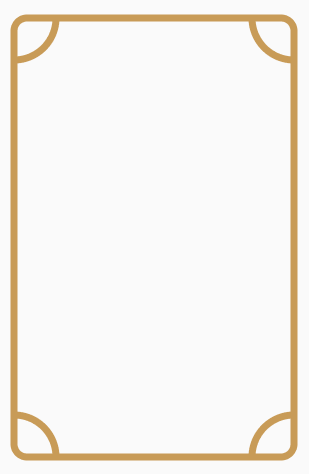
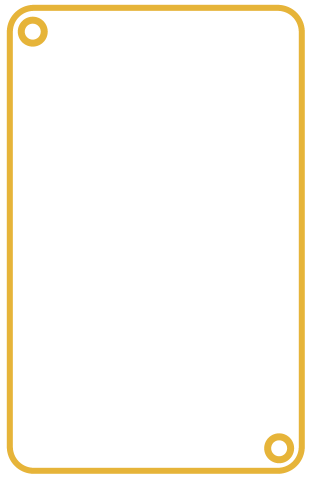
change card design and color, button colors as Theme

Changed region(s): [[0.0, 0.0, 0.9903, 1.0]]

diff --git a/lib/utilities/GesturedAnimatedCard.dart b/lib/utilities/GesturedAnimatedCard.dart
@@ -155,8 +155,8 @@ class _GesturedAnimatedArdState extends State<GesturedAnimatedCard> {
                                     ..setEntry(3, 2, 0.001)
                                     ..rotateY(val),
                                   child: Container(
-                                    width: 309,
-                                    height: 474,
+                                    width: 310,
+                                    height: 480,
                                     child: isBack ?
                                     Container(
                                       padding: EdgeInsets.all(20.0),
@@ -205,7 +205,8 @@ class _GesturedAnimatedArdState extends State<GesturedAnimatedCard> {
                                       child: Container(
                                         padding: EdgeInsets.all(20.0),
                                         decoration: BoxDecoration(
-                                            borderRadius: BorderRadius.circular(10.0),
+                                          color: Theme.of(context).accentColor,
+                                            borderRadius: BorderRadius.circular(30.0),
                                             image: DecorationImage(
                                                 image: AssetImage('assets/face.png')
                                             )
@@ -219,7 +220,7 @@ class _GesturedAnimatedArdState extends State<GesturedAnimatedCard> {
                                                 mainAxisAlignment:MainAxisAlignment.center,
                                                 crossAxisAlignment: CrossAxisAlignment.center,
                                                 children: [
-                                                  Text(vocabItems.word, style: TextStyle(fontSize: 35.0, fontFamily: 'Lobster-Regular', color: Colors.black.withOpacity(0.7)),),
+                                                  Text(vocabItems.word, style: TextStyle(fontSize: 35.0, fontFamily: 'Lobster-Regular', color: Colors.white.withOpacity(0.7)),),
                                                   TextToSpeech(vocabWord: vocabItems.word)
                                                 ],
                                               ),
@@ -231,7 +232,7 @@ class _GesturedAnimatedArdState extends State<GesturedAnimatedCard> {
                                               alignment: Alignment.center,
 
                                               decoration: BoxDecoration(
-                                                  color: Colors.black.withOpacity(0.1),
+                                                  color: Colors.white.withOpacity(0.1),
                                                   borderRadius: BorderRadius.circular(10.0)
                                               ),
                                               child:CupertinoScrollbar(
@@ -239,7 +240,7 @@ class _GesturedAnimatedArdState extends State<GesturedAnimatedCard> {
                                                 child: SingleChildScrollView(
                                                   scrollDirection: Axis.vertical,
 
-                                                  child:  Text(vocabItems.englishMeaning, style: TextStyle(fontSize: 23.0, fontFamily: 'ZillaSlab-Regular', color: Colors.black.withOpacity(0.7)),
+                                                  child:  Text(vocabItems.englishMeaning, style: TextStyle(fontSize: 23.0, fontFamily: 'ZillaSlab-Regular', color: Colors.white.withOpacity(0.7)),
                                                       textAlign: TextAlign.center),
                                                 ),
 
@@ -255,14 +256,14 @@ class _GesturedAnimatedArdState extends State<GesturedAnimatedCard> {
                                               margin: EdgeInsets.only(top: 3.0, bottom: 3.0),
 
                                               decoration: BoxDecoration(
-                                                  color: Colors.black.withOpacity(0.1),
+                                                  color: Colors.white.withOpacity(0.1),
                                                   borderRadius: BorderRadius.circular(10.0)
                                               ),
                                               child:CupertinoScrollbar(
                                                 child: SingleChildScrollView(
                                                   scrollDirection: Axis.vertical,
 
-                                                  child: Text(vocabItems.nativeMeaning, style: TextStyle(fontSize: 22.0, color: Colors.black.withOpacity(0.7),
+                                                  child: Text(vocabItems.nativeMeaning, style: TextStyle(fontSize: 22.0, color: Colors.white.withOpacity(0.7),
                                                       fontFamily: 'Ekushey-Puja'),
                                                       textAlign: TextAlign.center),
                                                 ),
@@ -275,20 +276,20 @@ class _GesturedAnimatedArdState extends State<GesturedAnimatedCard> {
                                               alignment: Alignment.center,
 
                                               decoration: BoxDecoration(
-                                                  color: Colors.black.withOpacity(0.1),
+                                                  color: Colors.white.withOpacity(0.1),
                                                   borderRadius: BorderRadius.circular(10.0)
                                               ),
                                               child:CupertinoScrollbar(
                                                 child: SingleChildScrollView(
                                                   scrollDirection: Axis.vertical,
 
-                                                  child: TextToSpeechSentence(sentences: vocabItems.sentences, color: Colors.black.withOpacity(0.7)),
+                                                  child: TextToSpeechSentence(sentences: vocabItems.sentences, color: Colors.white.withOpacity(0.7)),
                                                 ),
 
                                               ),
                                             ),
 
-                                            Text(DateFormat.yMMMd().add_jms().format(vocabItems.createdAt), style: TextStyle(fontSize: 12.0, fontFamily: 'ZillaSlab-Regular', color: Colors.black.withOpacity(0.7)),),
+                                            Text(DateFormat.yMMMd().add_jms().format(vocabItems.createdAt), style: TextStyle(fontSize: 12.0, fontFamily: 'ZillaSlab-Regular', color: Colors.white.withOpacity(0.7)),),
                                           ],
                                         ),
 

diff --git a/lib/navigation/MyVocab.dart b/lib/navigation/MyVocab.dart
@@ -173,11 +173,12 @@ class _MyVocabState extends State<MyVocab> {
                 children: [
                   ElevatedButton.icon(
                     onPressed: _selectDate,
-                    icon: Icon(Icons.today),
-                    label: searchByDate ? Text(DateFormat.yMMMd().format(DateTime.parse(_date.toString()))) : Text('FIND BY DATE'),
+                    icon: Icon(Icons.today, color: searchByDate ? Colors.white : Colors.grey[600]),
+                    label: searchByDate ? Text(DateFormat.yMMMd().format(DateTime.parse(_date.toString())), style: TextStyle(color: Colors.white)) :
+                    Text('FIND BY DATE', style: TextStyle(color: searchByDate ? Colors.white : Colors.grey[600])),
                     style: ElevatedButton.styleFrom(
                         enableFeedback: true,
-                        primary: searchByDate ? Colors.blue[500] : Colors.grey,
+                        primary: searchByDate ? Theme.of(context).accentColor : Colors.white.withOpacity(0.2),
                         shape: RoundedRectangleBorder(
                             borderRadius: BorderRadius.circular(20.0)
                         )
@@ -186,11 +187,11 @@ class _MyVocabState extends State<MyVocab> {
 
                   ElevatedButton.icon(
                     onPressed: _searchAllVocab,
-                    icon: Icon(Icons.description),
-                    label: Text('FIND ALL'),
+                    icon: Icon(Icons.description, color: findAllVocab ? Colors.white : Colors.grey[600]),
+                    label: Text('FIND ALL', style: TextStyle(color: findAllVocab ? Colors.white : Colors.grey[600])),
                     style: ElevatedButton.styleFrom(
                         enableFeedback: true,
-                        primary: findAllVocab ? Colors.blue[500] : Colors.grey,
+                        primary: findAllVocab ? Theme.of(context).accentColor : Colors.white.withOpacity(0.2),
                         shape: RoundedRectangleBorder(
                             borderRadius: BorderRadius.circular(20.0)
                         )

diff --git a/lib/navigation/MyDiary.dart b/lib/navigation/MyDiary.dart
@@ -165,14 +165,14 @@ class _MyDiaryState extends State<MyDiary> {
           children: [
             ElevatedButton.icon(
               onPressed: _selectDate,
-              icon: Icon(Icons.today),
+              icon: Icon(Icons.today, color: searchByDate ? Colors.white : Colors.grey[600]),
               label: searchByDate
                   ? Text(
-                  DateFormat.yMMMd().format(DateTime.parse(_date.toString())))
-                  : Text('FIND BY DATE'),
+                  DateFormat.yMMMd().format(DateTime.parse(_date.toString())), style: TextStyle(color: Colors.white),)
+                  : Text('FIND BY DATE', style: TextStyle(color: searchByDate ? Colors.white : Colors.grey[600]),),
               style: ElevatedButton.styleFrom(
                   enableFeedback: true,
-                  primary: searchByDate ? Colors.blue[500] : Colors.grey,
+                  primary: searchByDate ? Theme.of(context).accentColor : Colors.white.withOpacity(0.2),
                   shape: RoundedRectangleBorder(
                       borderRadius: BorderRadius.circular(20.0)
                   )
@@ -181,10 +181,10 @@ class _MyDiaryState extends State<MyDiary> {
 
             ElevatedButton.icon(
               onPressed: _searchAllVocab,
-              icon: Icon(Icons.description),
-              label: Text('FIND ALL'),
+              icon: Icon(Icons.description, color: findAllDiary ? Colors.white : Colors.grey[700]),
+              label: Text('FIND ALL', style: TextStyle(color: findAllDiary ? Colors.white : Colors.grey[700])),
               style: ElevatedButton.styleFrom(
-                  primary: findAllDiary ? Colors.blue[500] : Colors.grey,
+                  primary: findAllDiary ? Theme.of(context).accentColor : Colors.white.withOpacity(0.2),
                   enableFeedback: true,
                   shape: RoundedRectangleBorder(
                       borderRadius: BorderRadius.circular(20.0)

diff --git a/lib/utilities/NoteManipulator.dart b/lib/utilities/NoteManipulator.dart
@@ -109,7 +109,6 @@ class _NoteManipulatorState extends State<NoteManipulator> {
   @override
   Widget build(BuildContext context) {
 
-    print("_getConnection => ${_getNoConnection()}");
 
     return Container(
         height: isNotePublic ? 150 : 120,
@@ -177,6 +176,7 @@ class _NoteManipulatorState extends State<NoteManipulator> {
                 ],
               ),
             ),
+            SizedBox(height: 5.0,),
             Divider(height: 1.0, color: Colors.grey,),
             Container(
               child: Column(
@@ -193,7 +193,7 @@ class _NoteManipulatorState extends State<NoteManipulator> {
                           mainAxisAlignment: MainAxisAlignment.start,
                           crossAxisAlignment: CrossAxisAlignment.start,
                           children: [
-                            Text( isNotePublic ? 'Private your note?' : 'Share with everyone? ',
+                            Text( isNotePublic ? 'private this note?' : 'share this note? ',
                               style: TextStyle(fontSize: 20.0, fontFamily: 'ZillaSlab-Regular'),),
                             Text( isNotePublic ? 'No one can read your note.' : 'Your photo, name and note will be public.', textAlign: TextAlign.center,
                               style: TextStyle(color: Colors.grey.withOpacity(0.9), fontFamily: 'ZillaSlab-Regular'),),

diff --git a/lib/utilities/ReadDiary.dart b/lib/utilities/ReadDiary.dart
@@ -156,7 +156,7 @@ class _ReadDiaryState extends State<ReadDiary> {
                             () {
                           _closeEdit();
                         },
-                            icon: isEditable ? Icon(Icons.close) : Icon(Icons.arrow_back)
+                            icon: isEditable ? Icon(Icons.close, color: Colors.white) : Icon(Icons.arrow_back, color: Colors.white)
                         ),
 
                         isUpdating ?
@@ -172,6 +172,7 @@ class _ReadDiaryState extends State<ReadDiary> {
                           //label: Widgets.Text( isEditable ? 'UPDATE' : 'EDIT'),
                           style: ElevatedButton.styleFrom(
                               enableFeedback: true,
+                              primary: Theme.of(context).accentColor,
                               shape: RoundedRectangleBorder(
                                   borderRadius: BorderRadius.circular(30.0)
                               )
